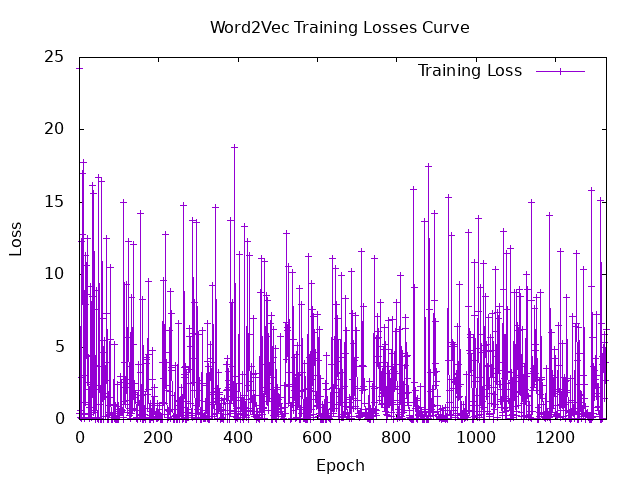
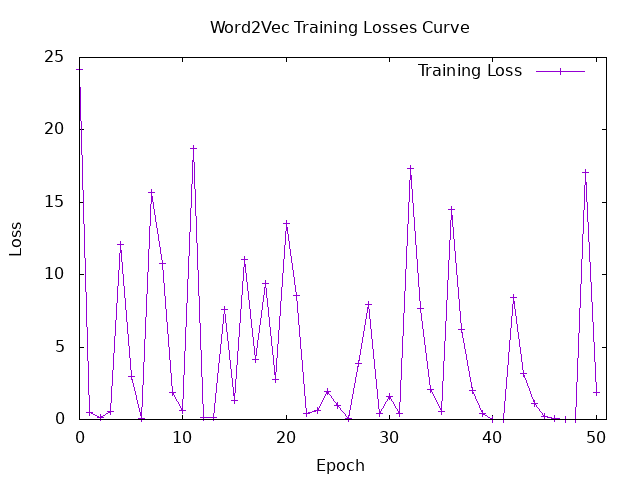
final

Changed region(s): [[0.125, 0.3438, 0.9688, 0.9375], [0.5625, 0.5312, 0.5938, 0.5625]]

diff --git a/Session7/README.md b/Session7/README.md
@@ -5,3 +5,49 @@
 ```bash
 docker compose exec hasktorch /bin/bash -c "cd /home/ubuntu/internship-bekkilab-japan-2025/ && stack run session7-amazon-review"
 ```
+
+
+
+
+# Code 
+
+### hasktorch-tools implementation
+
+```hs
+data Model = Model {
+  emb :: Embedding,
+  rnn :: RnnParams,
+  initialStates :: InitialStatesParams,
+  mlp :: MLP
+} deriving (Show, Generic, Parameterized)
+```
+
+```hs
+forwardModel :: Model -> Tensor -> (Tensor, Tensor,Tensor)
+forwardModel Model{..} inputIds =
+  let 
+      embeddings = embedding' (toDependent $ wordEmbedding emb) inputIds
+      
+      (output, hiddenStates) = rnnLayers rnn Tanh Nothing (toDependent $ h0s initialStates) embeddings
+
+      logits = mlpForward mlp output
+      
+  in (output, hiddenStates , logits)
+```
+# Training
+
+| **Hyperparameter** | **Value**         |
+|---------------------|-------------------|
+| BatchSize          | ```32```                |
+| LearningRate       | ```0.01```            |
+| Optimizer          | ```GD``` |
+|    VocabSize       | ``` 30 000```                |
+|    seqLen       | ```128 ```                |
+|        emdbDim   | ``` 128```                |
+|        hiddenDim   | ``` 128```                |
+|        nLayer   | ``` 2```                |
+|       Loss Func   | ``` MSE ```                |
+
+
+
+![image](output/rnn-review-training.png)
